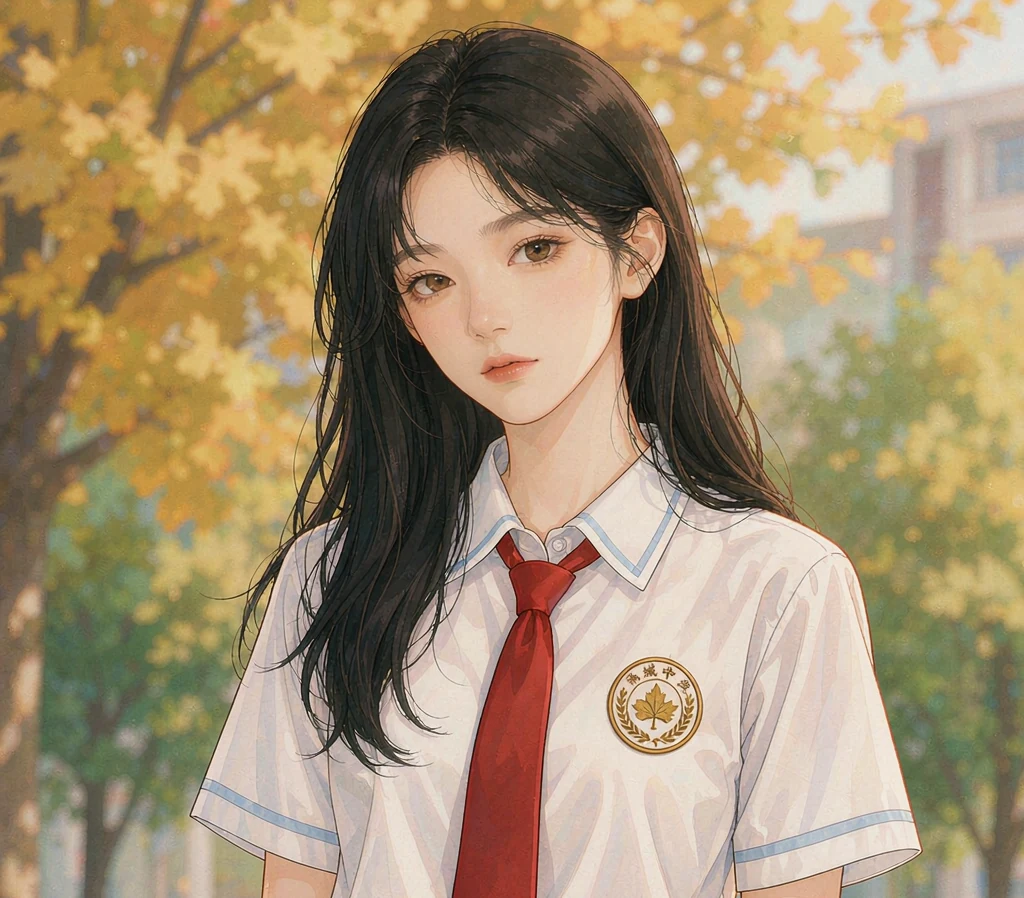
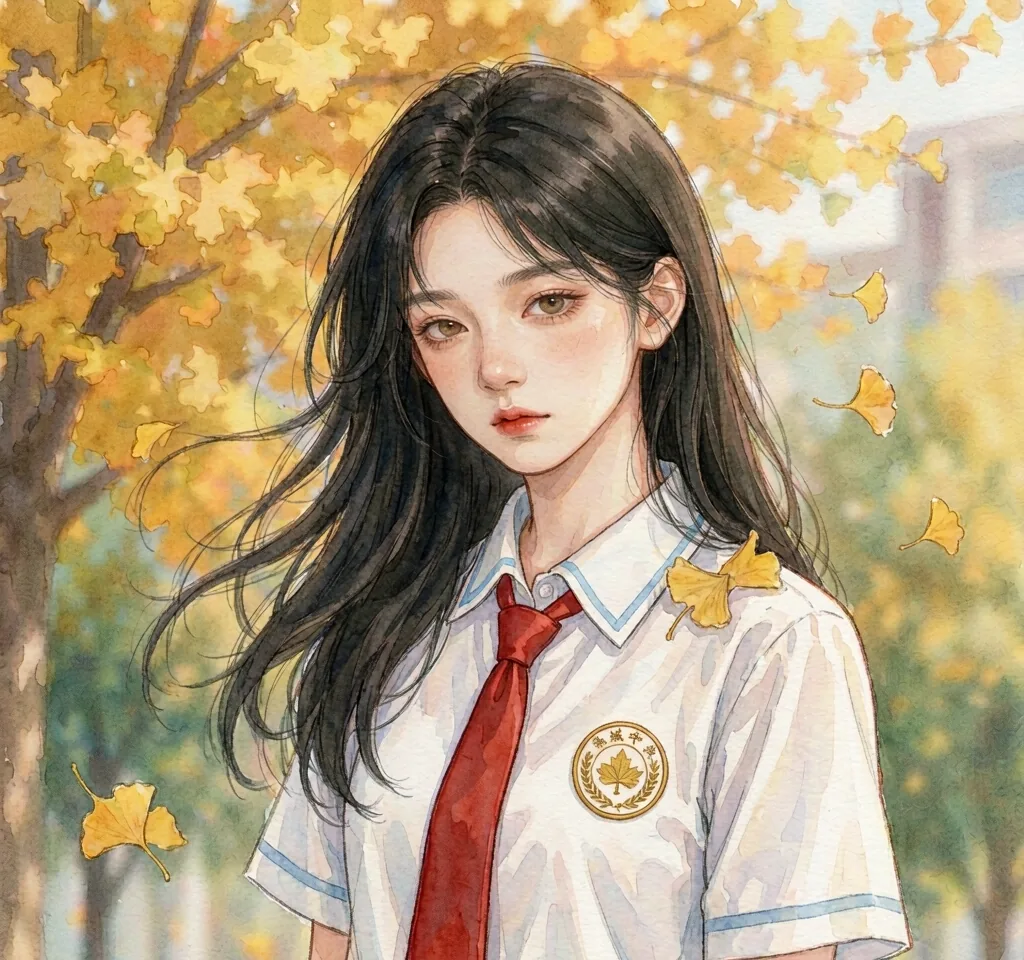
江不秋立绘换自由版：银杏叶里长发吹起，清冷不笑的易碎感（CACHE v48）
作者确认推这版（只锁校服制式、校徽、画风，构图道具自由）：
站在飘落的银杏叶里，侧身、长发被风吹起、一片叶子落在肩头，
微微低头不看镜头、没有笑容，眉眼间是化不开的淡淡忧郁
——「精致而易碎的美」，风与落叶替她说话。

构图比胸像满（站姿+风+落叶），是作者看过预览后选定的。
红领带、金色校徽、浅蓝滚边、白衬衫均在位。
仍是纯裁切去水印（右下角检查干净），CACHE v47 → v48。

diff --git a/sw.js b/sw.js
@@ -19,7 +19,7 @@
  *      NETWORK_TIMEOUT（500ms），所以它们必须走缓存优先。
  *   3. /app/ 前缀（安装包、version.json）不拦截，直接交给网络
  */
-var CACHE = 'linyuan-v47';
+var CACHE = 'linyuan-v48';
 
 /**
  * 缓存条目的「自愈 TTL」：超过这个年龄的缓存命中，会在后台补一次刷新。
